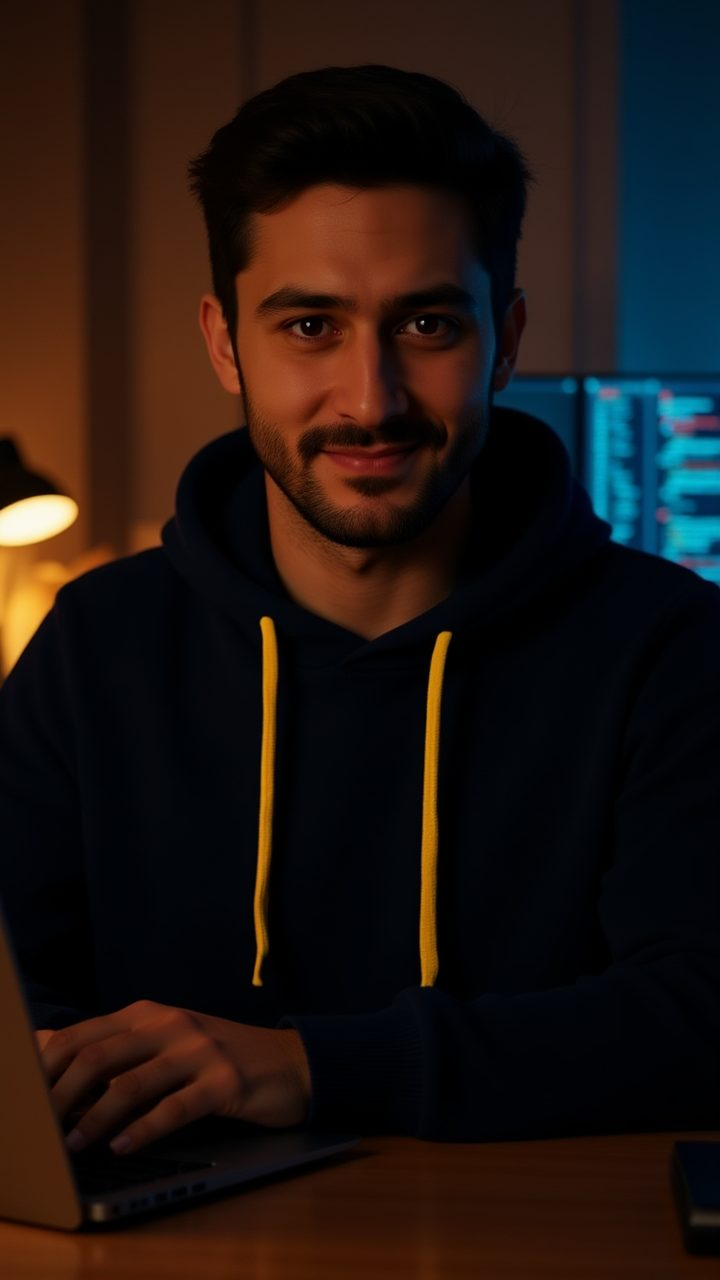
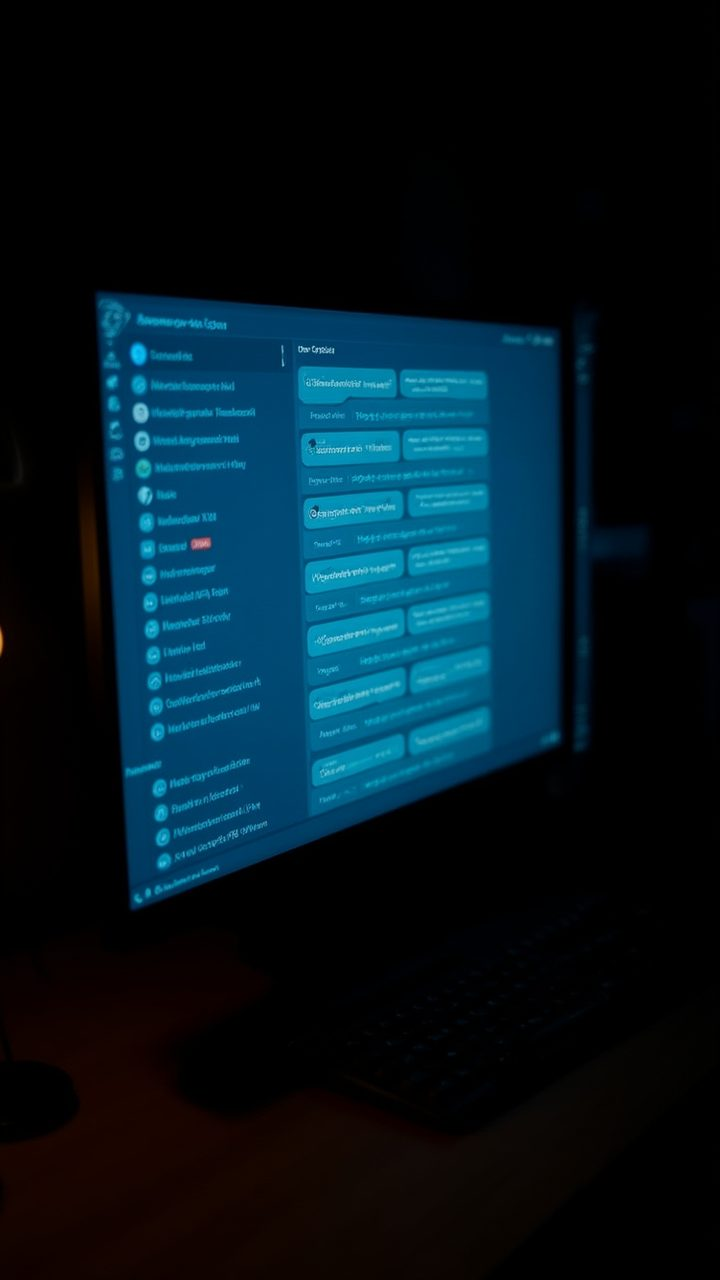
Add files via upload

diff --git a/index.html b/index.html
@@ -160,9 +160,9 @@
       <div class="info"><span class="pill" style="background:#ff5a4e33;color:#ff8a80">Сериалы</span><h3>NaFilme</h3><p>Мистика, драма и сказки в коротких сериях.</p></div></article>
     <article class="card reveal tilt"><div class="pic"><img src="kids.jpg" alt="Кадр из мультфильма «Колёсово»" loading="lazy"></div>
       <div class="info"><span class="pill" style="background:#5ec8ff33;color:#8fdcff">Для детей</span><h3>NaMultfilmeHub</h3><p>«Колёсово» — мультики-песенки про машинок.</p></div></article>
-    <article class="card reveal tilt"><div class="pic"><img src="hub.jpg" alt="Обложка канала NaFilmeHub" loading="lazy"></div>
+    <article class="card reveal tilt"><div class="pic"><img src="hubcard.jpg" alt="Логотип канала NaFilmeHub" loading="lazy" style="object-fit:contain;background:#0d1a33"></div>
       <div class="info"><span class="pill" style="background:#7cf0c533;color:#9ff5d6">Железо</span><h3>NaFilmeHub</h3><p>Компьютеры, сборки и комплектующие — понятно.</p></div></article>
-    <article class="card reveal tilt"><div class="pic"><img src="tech.jpg" alt="Ведущий Web Stream" loading="lazy"></div>
+    <article class="card reveal tilt"><div class="pic"><img src="tech.jpg" alt="Экран с кодом — Web Stream" loading="lazy"></div>
       <div class="info"><span class="pill" style="background:#ffcf3f33;color:#ffdc72">Технологии</span><h3>Web Stream</h3><p>ИИ, агенты, сайты и боты — коротко с ведущим.</p></div></article>
   </div>
 </div></section>
